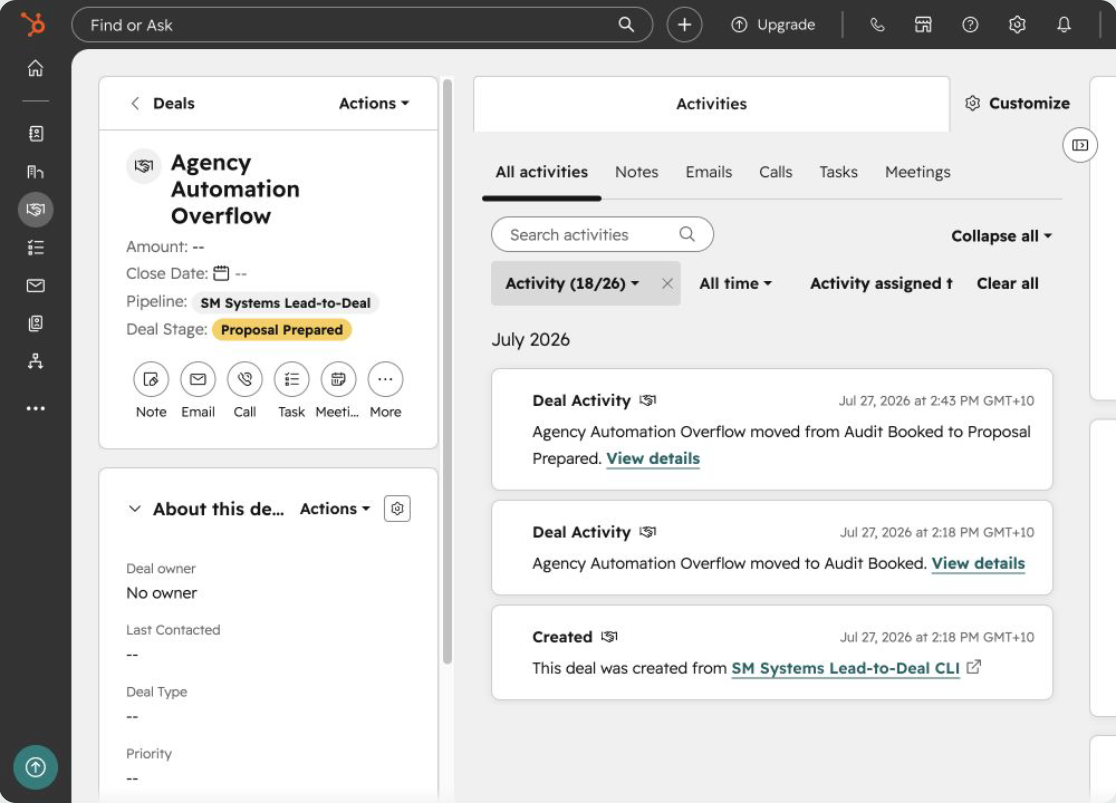
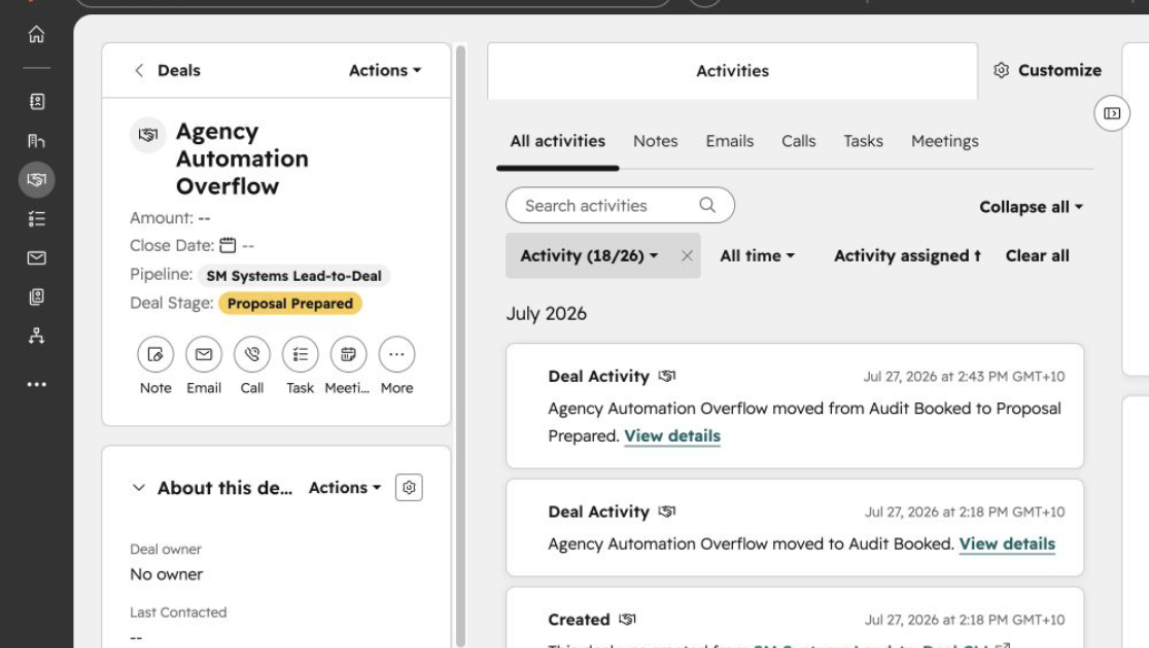
Normalize portfolio carousel screenshots

diff --git a/content/proof.ts b/content/proof.ts
@@ -392,8 +392,8 @@ export const proofItems: ProofItem[] = [
           alt: 'HubSpot deal activity showing controlled stage movement from Audit Booked to Proposal Prepared.',
           caption:
             'Native activity history showing controlled movement from Audit Booked to Proposal Prepared.',
-          width: 1116,
-          height: 803,
+          width: 1149,
+          height: 648,
         },
       ],
     },
@@ -512,24 +512,24 @@ export const proofItems: ProofItem[] = [
           alt: 'RFID operator dashboard Tag Setup workspace with tag selection, claim-code activation, and manual activation controls.',
           caption:
             'Tag Setup workspace for selecting tags, activating customer claim codes, and managing tag assignments.',
-          width: 1280,
-          height: 720,
+          width: 2048,
+          height: 1060,
         },
         {
           src: '/rfid/operator-wash-test.png',
           alt: 'RFID operator dashboard Wash Test workspace with automation modes and wash-output signal indicators.',
           caption:
             'Wash Test workspace for selecting an automation mode and monitoring wash-output signals.',
-          width: 1280,
-          height: 720,
+          width: 2048,
+          height: 1060,
         },
         {
           src: '/rfid/subscription-website.png',
           alt: 'Subscription website showing Standard, Premium, and Ultimate monthly wash-plan cards.',
           caption:
             'Customer plan-selection screen showing Standard, Premium, and Ultimate options before checkout.',
-          width: 2654,
-          height: 1502,
+          width: 2048,
+          height: 1060,
         },
       ],
     },

diff --git a/app/work/rfid-subscription-access-system/page.tsx b/app/work/rfid-subscription-access-system/page.tsx
@@ -10,8 +10,8 @@ const screenshotLayout = [
   {
     src: '/rfid/subscription-website.png',
     title: 'Customer plan selection',
-    width: 2654,
-    height: 1502,
+    width: 2048,
+    height: 1060,
   },
   {
     src: '/rfid/operator-dashboard.png',
@@ -22,14 +22,14 @@ const screenshotLayout = [
   {
     src: '/rfid/operator-tag-setup.png',
     title: 'Tag setup and activation',
-    width: 1280,
-    height: 720,
+    width: 2048,
+    height: 1060,
   },
   {
     src: '/rfid/operator-wash-test.png',
     title: 'Wash automation controls',
-    width: 1280,
-    height: 720,
+    width: 2048,
+    height: 1060,
   },
 ];
 

diff --git a/app/work/hubspot-lead-to-deal-crm/page.tsx b/app/work/hubspot-lead-to-deal-crm/page.tsx
@@ -19,8 +19,8 @@ const screenshotLayout = [
   },
   {
     src: '/hubspot-lead-to-deal/auditable-stage-history.png',
-    width: 1116,
-    height: 803,
+    width: 1149,
+    height: 648,
   },
 ];
 
